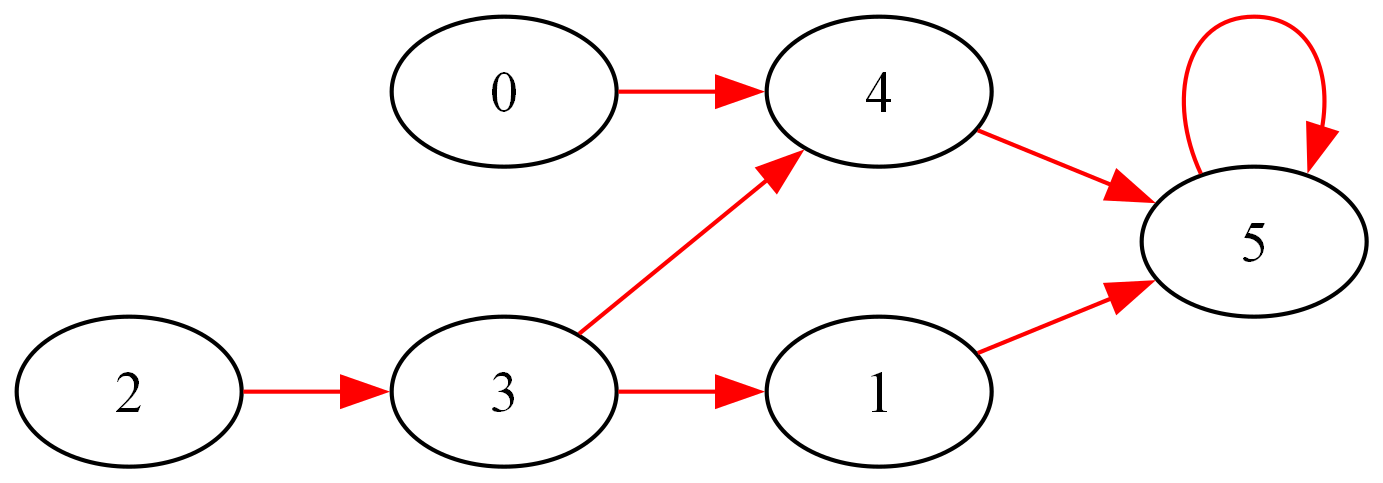
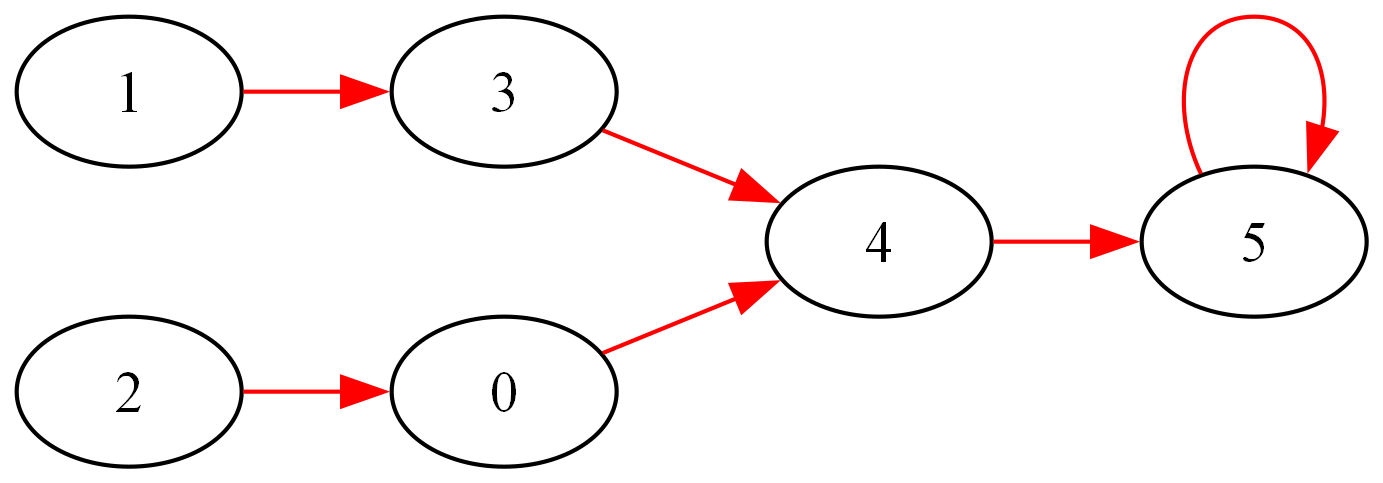
Random graph generation

diff --git a/src/graph_model.py b/src/graph_model.py
@@ -1,22 +1,64 @@
 from config import MAX_REWARD, NUM_NODES
+import random
 
 
-def generate_random_graph(num_nodes: int) -> list:
-    """Generate a random graph with the given number of nodes. The graph is represented as an adjacency matrix.
+def dfs(matrix: list, node: int, visited: list) -> None:
+    """Perform Depth First Search (DFS) on the graph represented by the adjacency matrix
 
     Args:
-        num_nodes (int): The number of nodes in the graph
+        matrix (list): The adjacency matrix of the graph
+        node (int): The starting node for DFS
+        visited (list): A list to keep track of visited nodes. Initially, pass a list of False values of length equal to the number of nodes in the graph.
+    """
+    visited[node] = True
+    for neighbor in range(len(matrix)):
+        if matrix[node][neighbor] == 1 and not visited[neighbor]:
+            dfs(matrix, neighbor, visited)
+
+
+
+def is_connected(matrix: list) -> bool:
+    """Check if the graph represented by the adjacency matrix is connected
+
+    Args:
+        matrix (list): The adjacency matrix of the graph to check for connectivity
 
     Returns:
-        list: The adjacency matrix of the generated graph
+        bool: Whether the graph is connected or not
     """
-    A = [[0, 0, 0, 0, 1, 0],
-        [0, 0, 0, 1, 0, 1],
-        [0, 0, 0, 1, 0, 0],
-        [0, 1, 1, 0, 1, 0],
-        [1, 0, 0, 1, 0, 1],
-        [0, 1, 0, 0, 1, 1]]
-    return A
+    visited = [False] * len(matrix)
+    dfs(matrix, 0, visited)  # Start DFS from the first node
+    return all(visited)
+
+
+
+def generate_random_graph(N: int) -> list:
+    """Generate a random unweighted adjacency matrix for a connected graph
+    with at least one connection to the (N-1)th node.
+
+    Args:
+        N (int): The number of nodes in the graph.
+
+    Returns:
+        list: The adjacency matrix representing the graph.
+    """
+    while True:
+        # Generate a random symmetric adjacency matrix
+        matrix = [[0] * N for _ in range(N)]
+        
+        for i in range(N):
+            for j in range(i + 1, N):  # Avoid diagonal elements
+                # Randomly set 0 or 1 for edges (avoid self-loops)
+                matrix[i][j] = matrix[j][i] = random.choice([0, 1])
+
+        # Ensure the (N-1)th node is connected to at least one other node
+        if random.choice([True, False]):
+            matrix[random.randint(0, N-2)][N-1] = matrix[N-1][random.randint(0, N-2)] = 1
+
+        # Check if the graph is connected
+        if is_connected(matrix):
+            matrix[N-1][N-1] = 1  # Set the goal node to be connected to itself
+            return matrix
 
 
 
